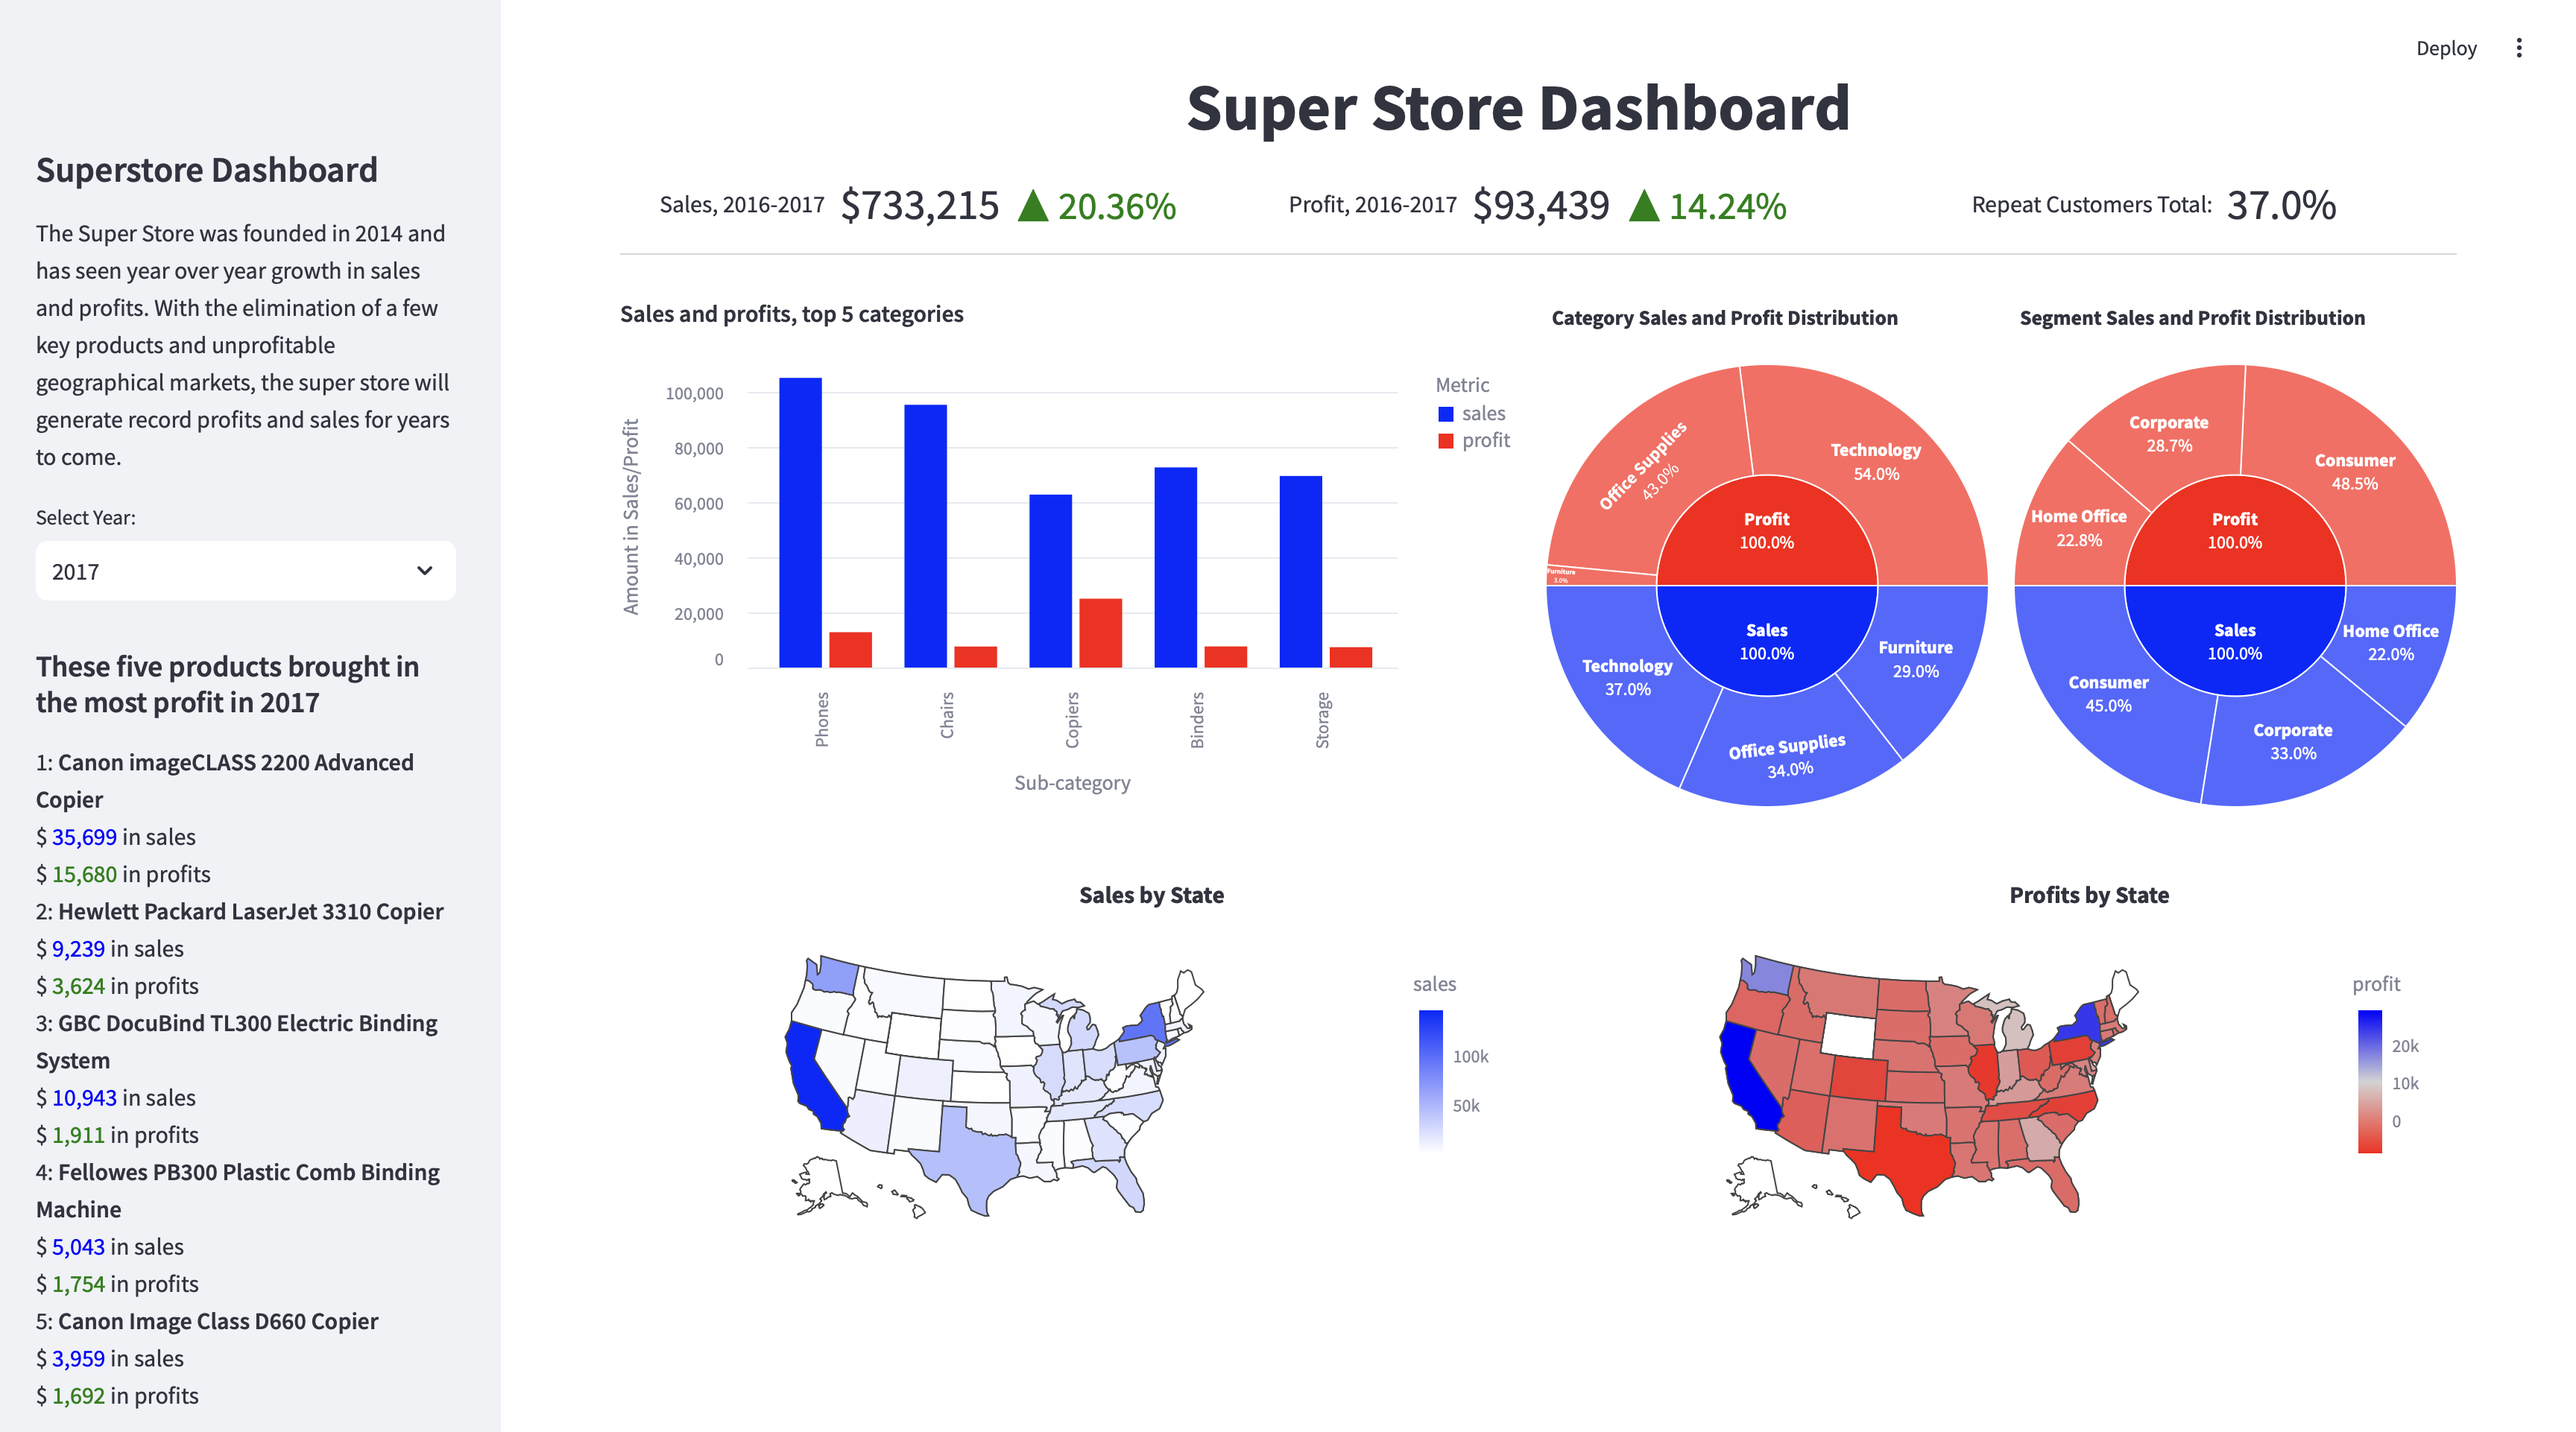
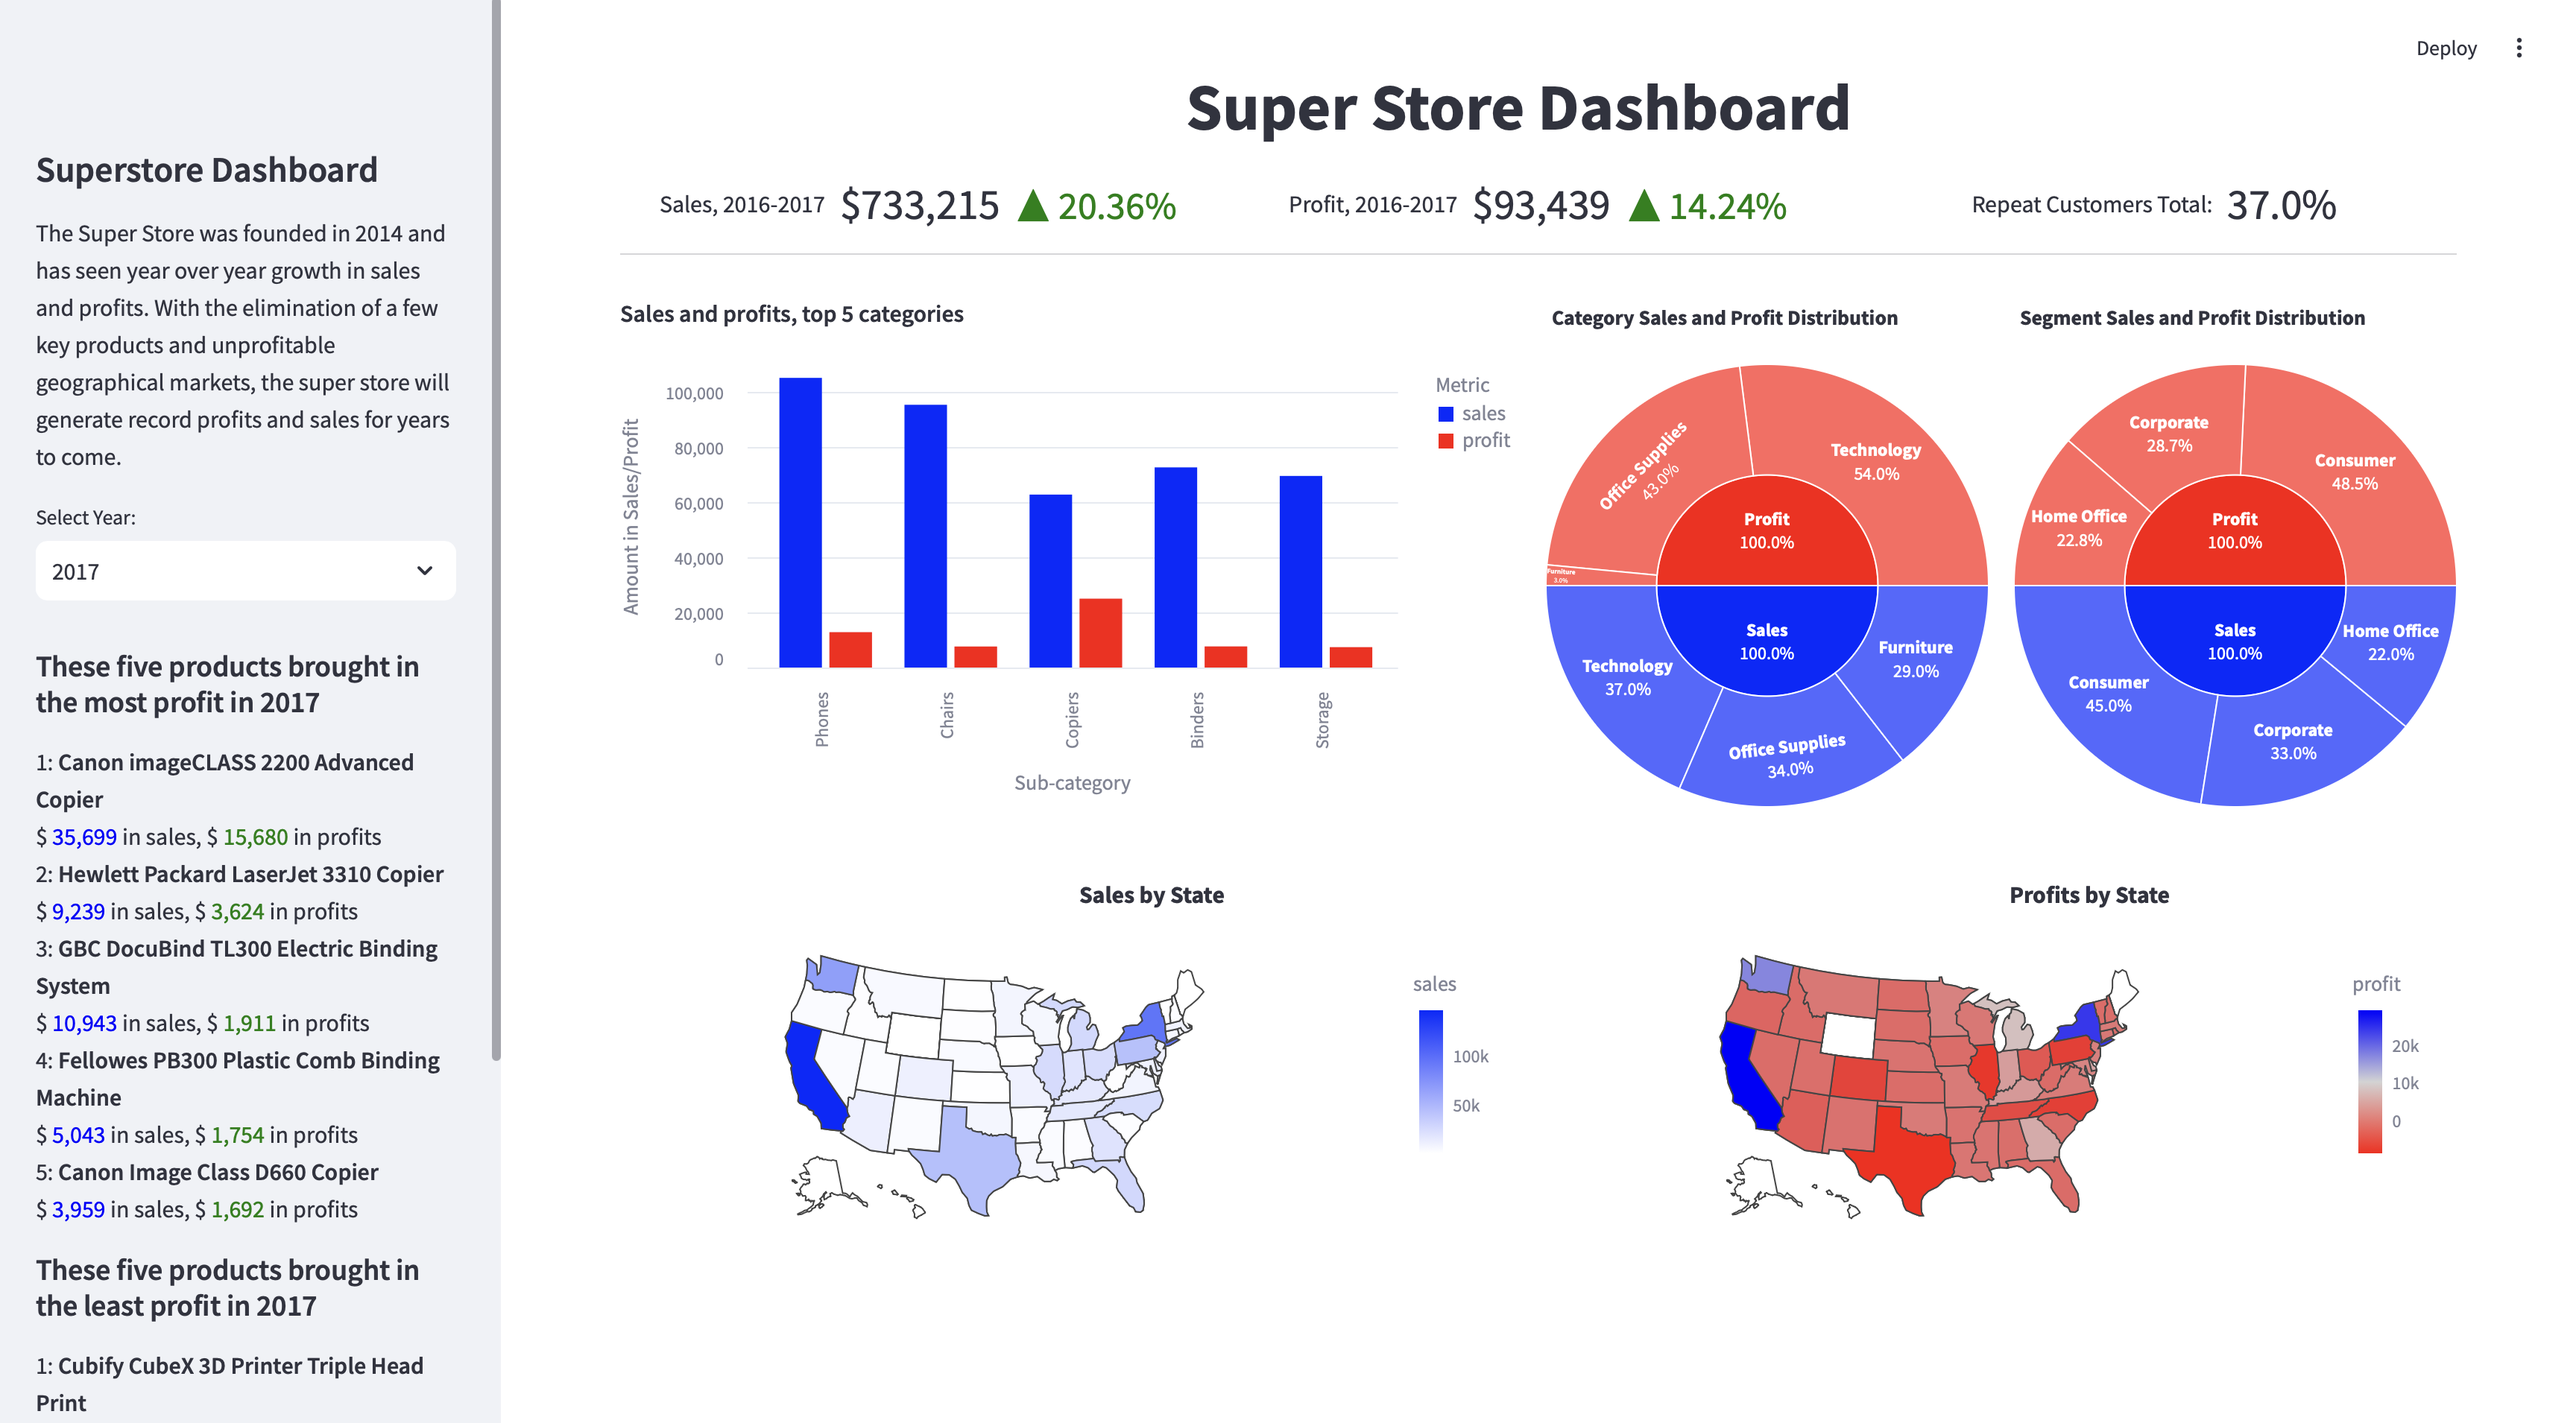
change to sidebar & update dashboard img

diff --git a/scripts/main.py b/scripts/main.py
@@ -126,8 +126,7 @@ with st.sidebar:
         sales = int(high_profit_products.iloc[i-1]['sales'])
         st.markdown(f"""
             <p style='margin-bottom: 0px;'>{i}: <strong>{product_name}</strong></p>
-            <p style='margin-bottom: 0px;'>$ <span style='color:blue;'>{sales:,} </span>in sales</p>
-            <p style='margin-bottom: 0px;'>$ <span style='color:green;'>{profit:,} </span>in profits</p>
+            <p style='margin-bottom: 0px;'>$ <span style='color:blue;'>{sales:,} </span>in sales, $ <span style='color:green;'>{profit:,} </span>in profits</p>
         """, unsafe_allow_html=True)
 
     st.header(f"These five products brought in the least profit in {selected_year}")
@@ -138,8 +137,7 @@ with st.sidebar:
         sales = int(bottom_5_low_profit.iloc[i-1]['sales'])
         st.markdown(f"""
             <p style='margin-bottom: 0px;'>{i}: <strong>{product_name}</strong></p>
-            <p style='margin-bottom: 0px;'>$ <span style='color:blue;'>{sales:,} </span>in sales</p>
-            <p style='margin-bottom: 0px;'>$ <span style='color:red;'>{profit:,} </span>in profits</p>
+            <p style='margin-bottom: 0px;'>$ <span style='color:blue;'>{sales:,} </span>in sales, $ <span style='color:red;'>{profit:,} </span>in profits</p>
         """, unsafe_allow_html=True)
     
     
